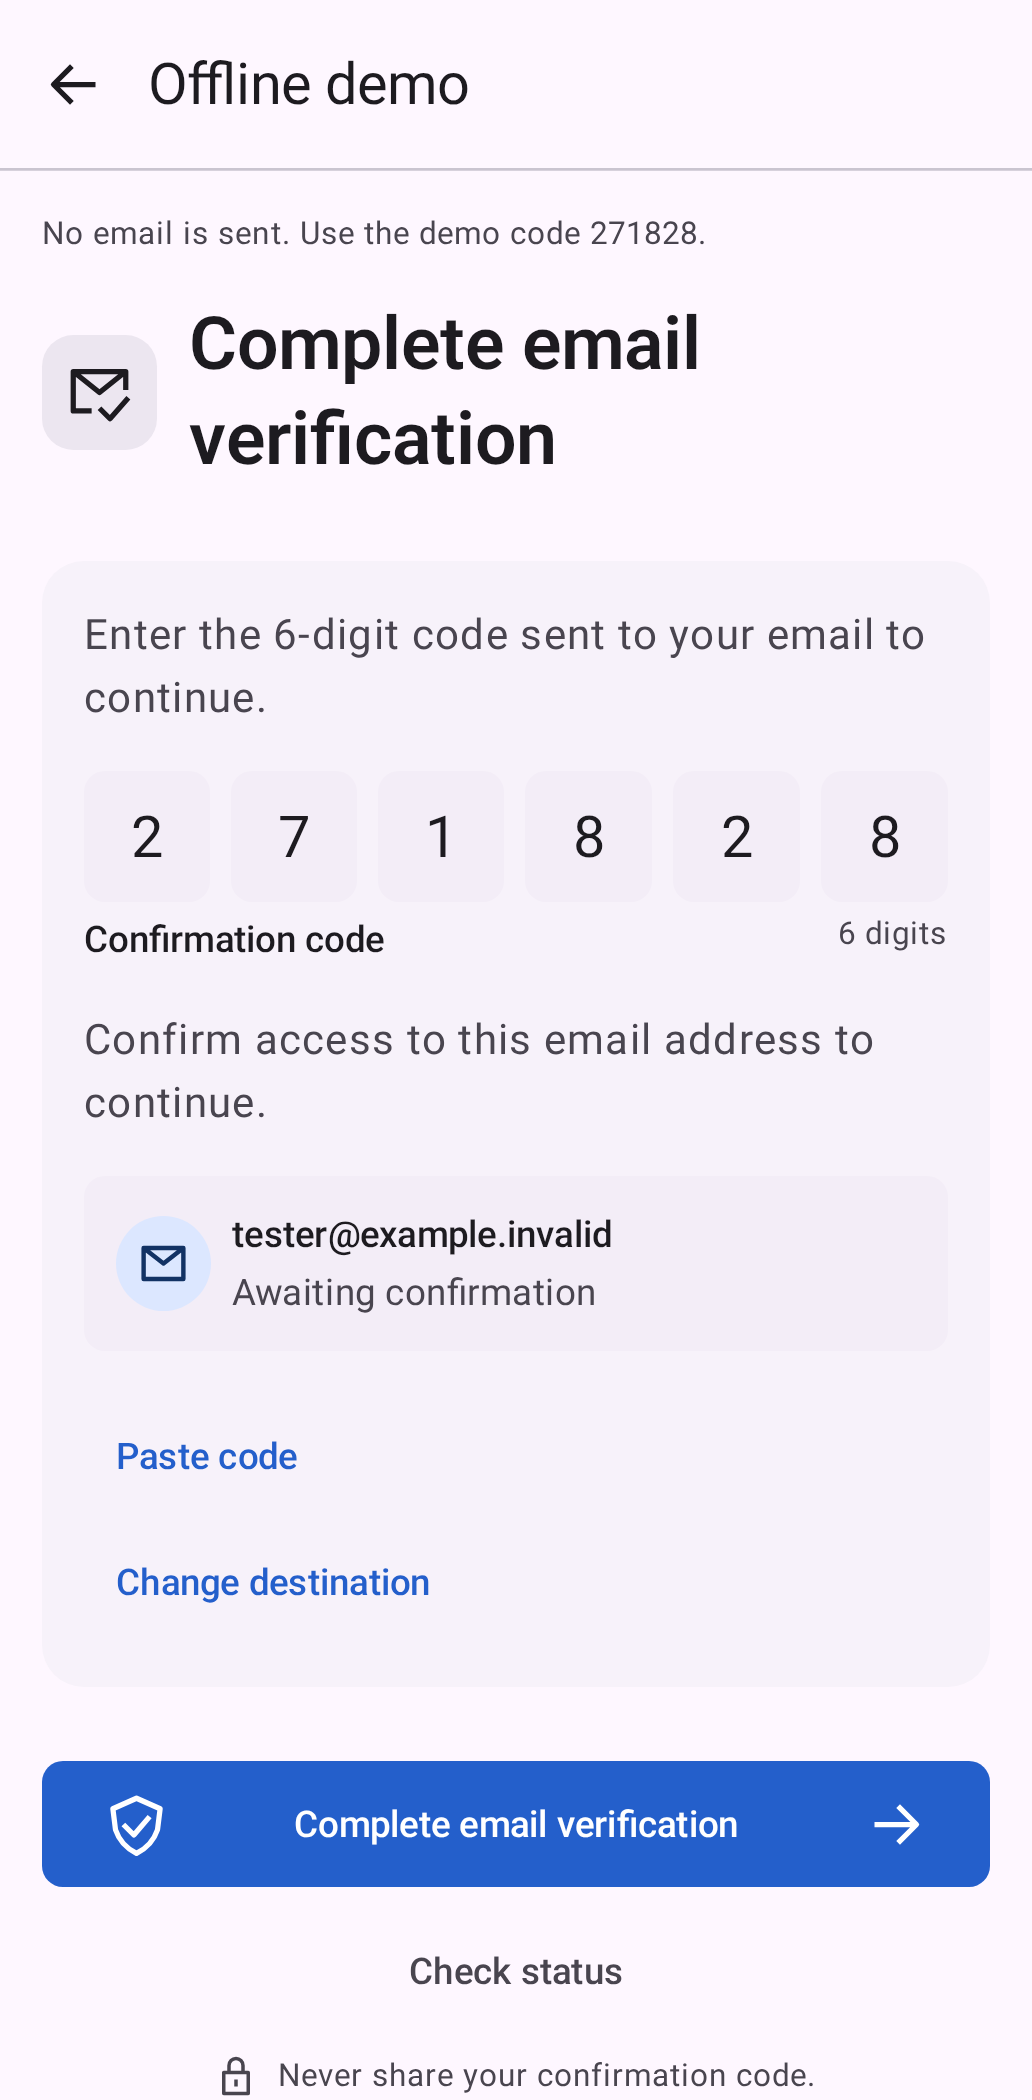
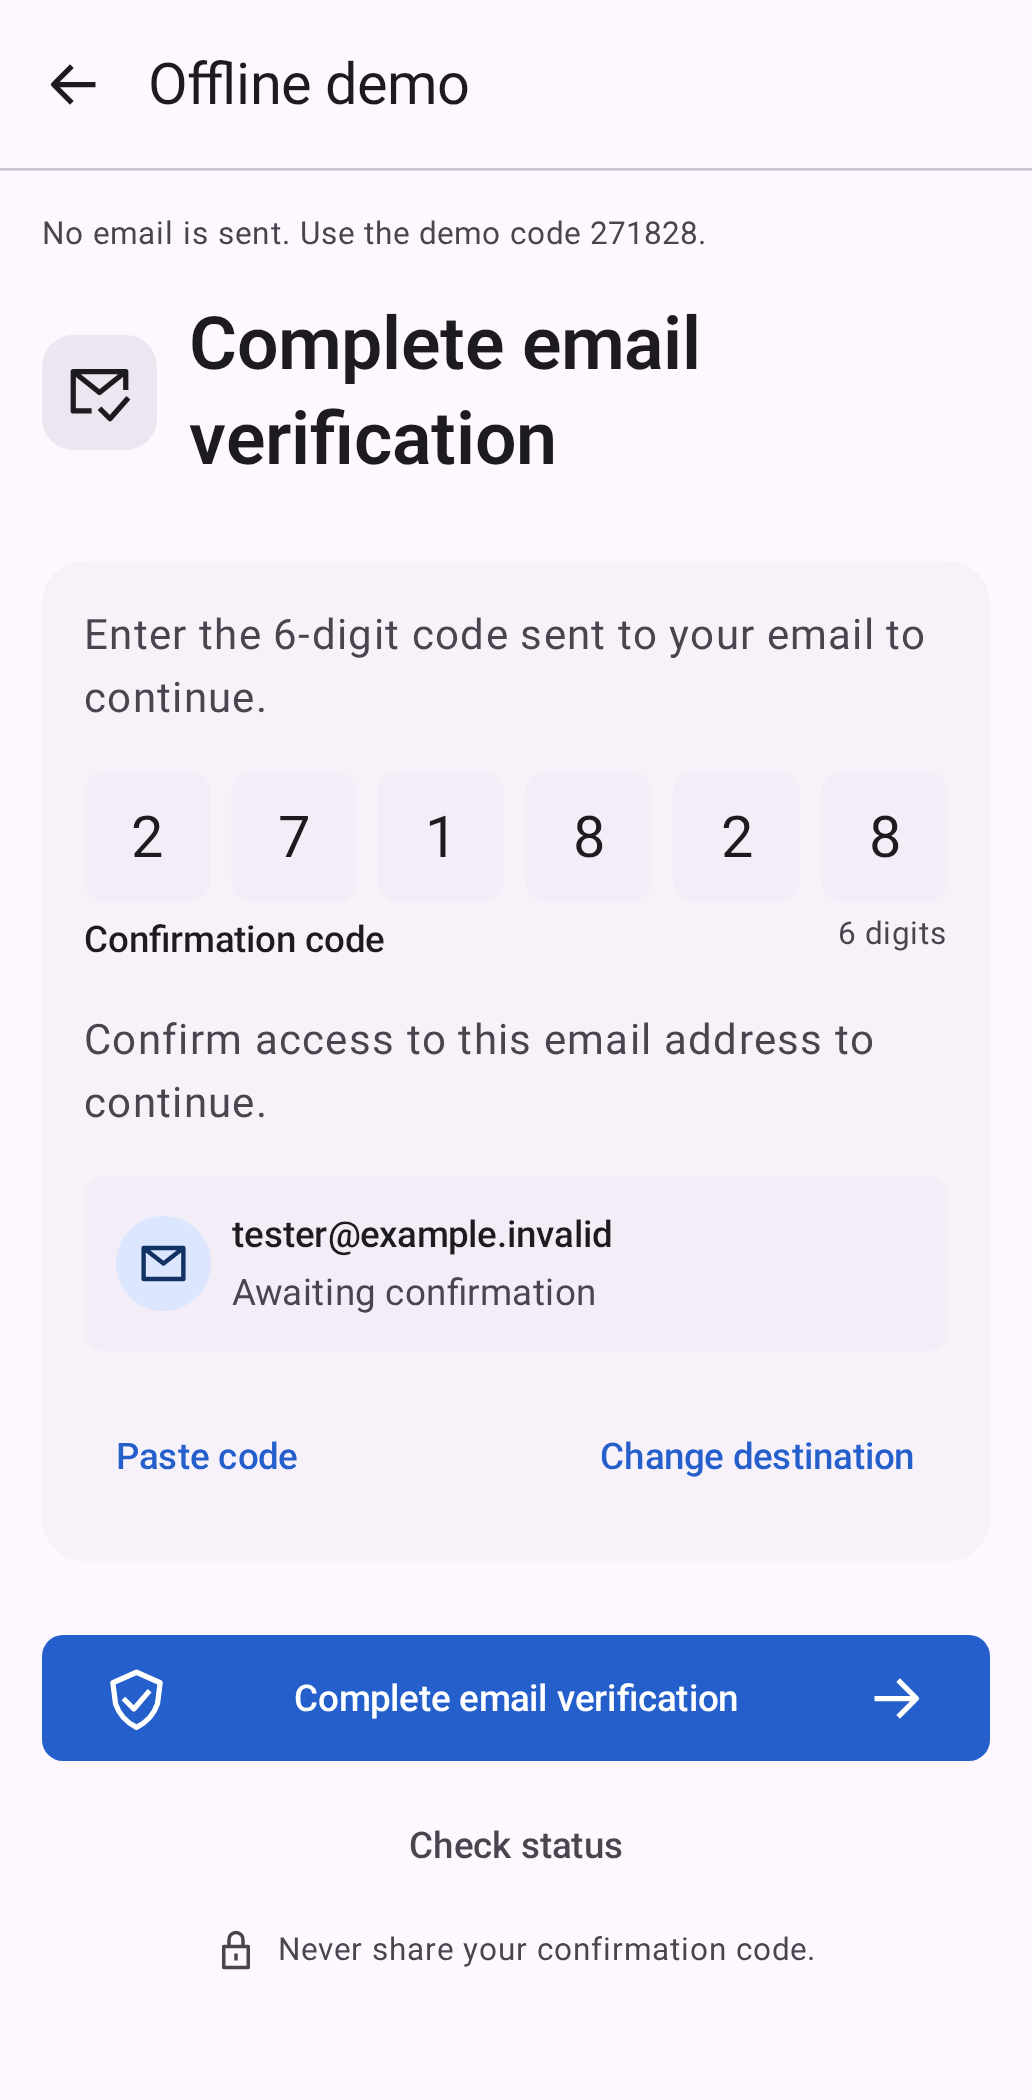
Add reviewed action-row and error-state documentation captures

diff --git a/docs/agents/screenshots.md b/docs/agents/screenshots.md
@@ -4,11 +4,11 @@ The executable Compose Preview Screenshot suite captures both modules via the An
 
 | Module | UI and variations |
 | --- | --- |
-| Library | Email entry, sending, manual code entry, recipient summary and busy state, invalid code, host polling, success and expiry. Email entry and invalid code include narrow/larger-text variants; manual code entry also covers both light and dark at narrow/larger text. A contrasting host theme covers typography, shapes and colors. |
+| Library | Email entry, sending, manual code entry, recipient summary and busy state, invalid code and unavailable service, host polling, success and expiry. Email entry includes a narrow/larger-text variant; invalid code and manual code entry cover both light and dark at narrow/larger text. A contrasting host theme covers typography, shapes and colors. |
 | App | Launcher catalog with App settings, offline entry/error/success, live connection, environment directory/loading/unavailable and live code entry. The manual-code screen has light/dark and narrow/larger-text captures. The catalog includes Spanish and narrow/larger-text variants; live connection also includes narrow/larger text. All use the production shared catalog, theme and forms with inert callbacks and fixture state. |
 
 The required inventory is [scenarios.json](../screenshots/scenarios.json). The library's `WidgetScreenshotTest` covers `EmailVerificationWidget` and its delegated notice content. The app's `DemoScreenshotTest` maps `DemoCatalogScreen` to `catalog`, `DemoFlowScreen` to `offlineFlow`/`offlineError`/`offlineSuccess`/`liveFlow`, and `LiveConnectionScreen` plus its `LiveConnectionForm` to the connection/directory scenarios. `DemoTheme` wraps every app scenario and `BackToDemoMenu` is covered by connection screens; flow screenshots cover the app-bar Back action. Runtime Activity/ViewModel wiring delegates to those visual screens and is checked separately by the host tests. Preview fixtures never construct a controller, start discovery or launch Android settings.
 
 Run `python3 scripts/screenshots/review.py` from the repository root or select **Run workflow** on **Verify**. This produces a PNG inventory with a source commit and hashes, and a gallery in `build/screenshot-review/index.html`. The workflow uploads PNGs, the gallery, provenance and renderer reports. The script fails on missing scenario variants, zero screenshots, unknown images and changes to approved files. Before approval the images are candidates. Review clipping, empty screens, text size and errors before accepting them.
 
-After reviewing, run `python3 scripts/screenshots/review.py --accept "Your name"` and review the reference-image and manifest diff. Once references exist, CI runs `./gradlew :email-verification:validateDebugScreenshotTest :app:validateDebugScreenshotTest` against them. Changes show before and after PNGs and mark missing sides. Byte-identical images with changed inputs produce a manifest-only update for review. Documentation screenshots can be curated from approved captures with the matching source and image hashes.
+After reviewing, run `python3 scripts/screenshots/review.py --accept "Your name"` and review the reference-image and manifest diff. Once references exist, CI runs `./gradlew :email-verification:validateDebugScreenshotTest :app:validateDebugScreenshotTest` against them. Changes show before and after PNGs and mark missing sides. Byte-identical images with changed inputs produce a manifest-only update for review. Documentation illustrations can be curated from visually reviewed candidates with matching source and image hashes, explicitly labeled separately from accepted regression baselines.

diff --git a/docs/agents/demo.md b/docs/agents/demo.md
@@ -33,10 +33,19 @@ These reviewed Compose-rendered previews show the production catalog at 393 × 8
 
 These synthetic previews show a complete local example code before submission. The recipient stays
 **Awaiting confirmation** until the controller advances. The blue/slate palette belongs to the demo;
-the reusable widget inherits its host theme. **Paste code** and **Change destination** sit below
-the recipient card. Tapping a digit selects it, and the highlight follows typing. [Capture provenance](../screenshots/manual-code.json).
+the reusable widget inherits its host theme. **Paste code** and **Change destination** share a row below
+the recipient card, aligned to opposite sides. Tapping a digit selects it, and the highlight follows typing. [Capture provenance](../screenshots/manual-code.json).
 
 Choose **Open offline demo**, leave the sample address in place, tap **Send code**, then enter `271828`. Enter a different six-digit code first to see the error and retry state. Offline mode uses an in-memory fixture and sends no email. **Start over** starts another attempt; **Back to demo menu** and system Back leave the flow.
+
+| Invalid code, light | Invalid code, dark |
+| --- | --- |
+| ![Light invalid-code notice and aligned actions](../screenshots/code-error-light.png) | ![Dark invalid-code notice and aligned actions](../screenshots/code-error-dark.png) |
+
+The error legend, tinted cells and outlined notice use the host's error colors. The notice appears
+before the recipient card. Editing clears the error through the controller; the focused digit keeps
+its stronger primary outline. [Capture provenance](../screenshots/manual-code.json) identifies the
+source integration used for these documentation illustrations. They are not accepted regression baselines.
 
 ## Live
 
